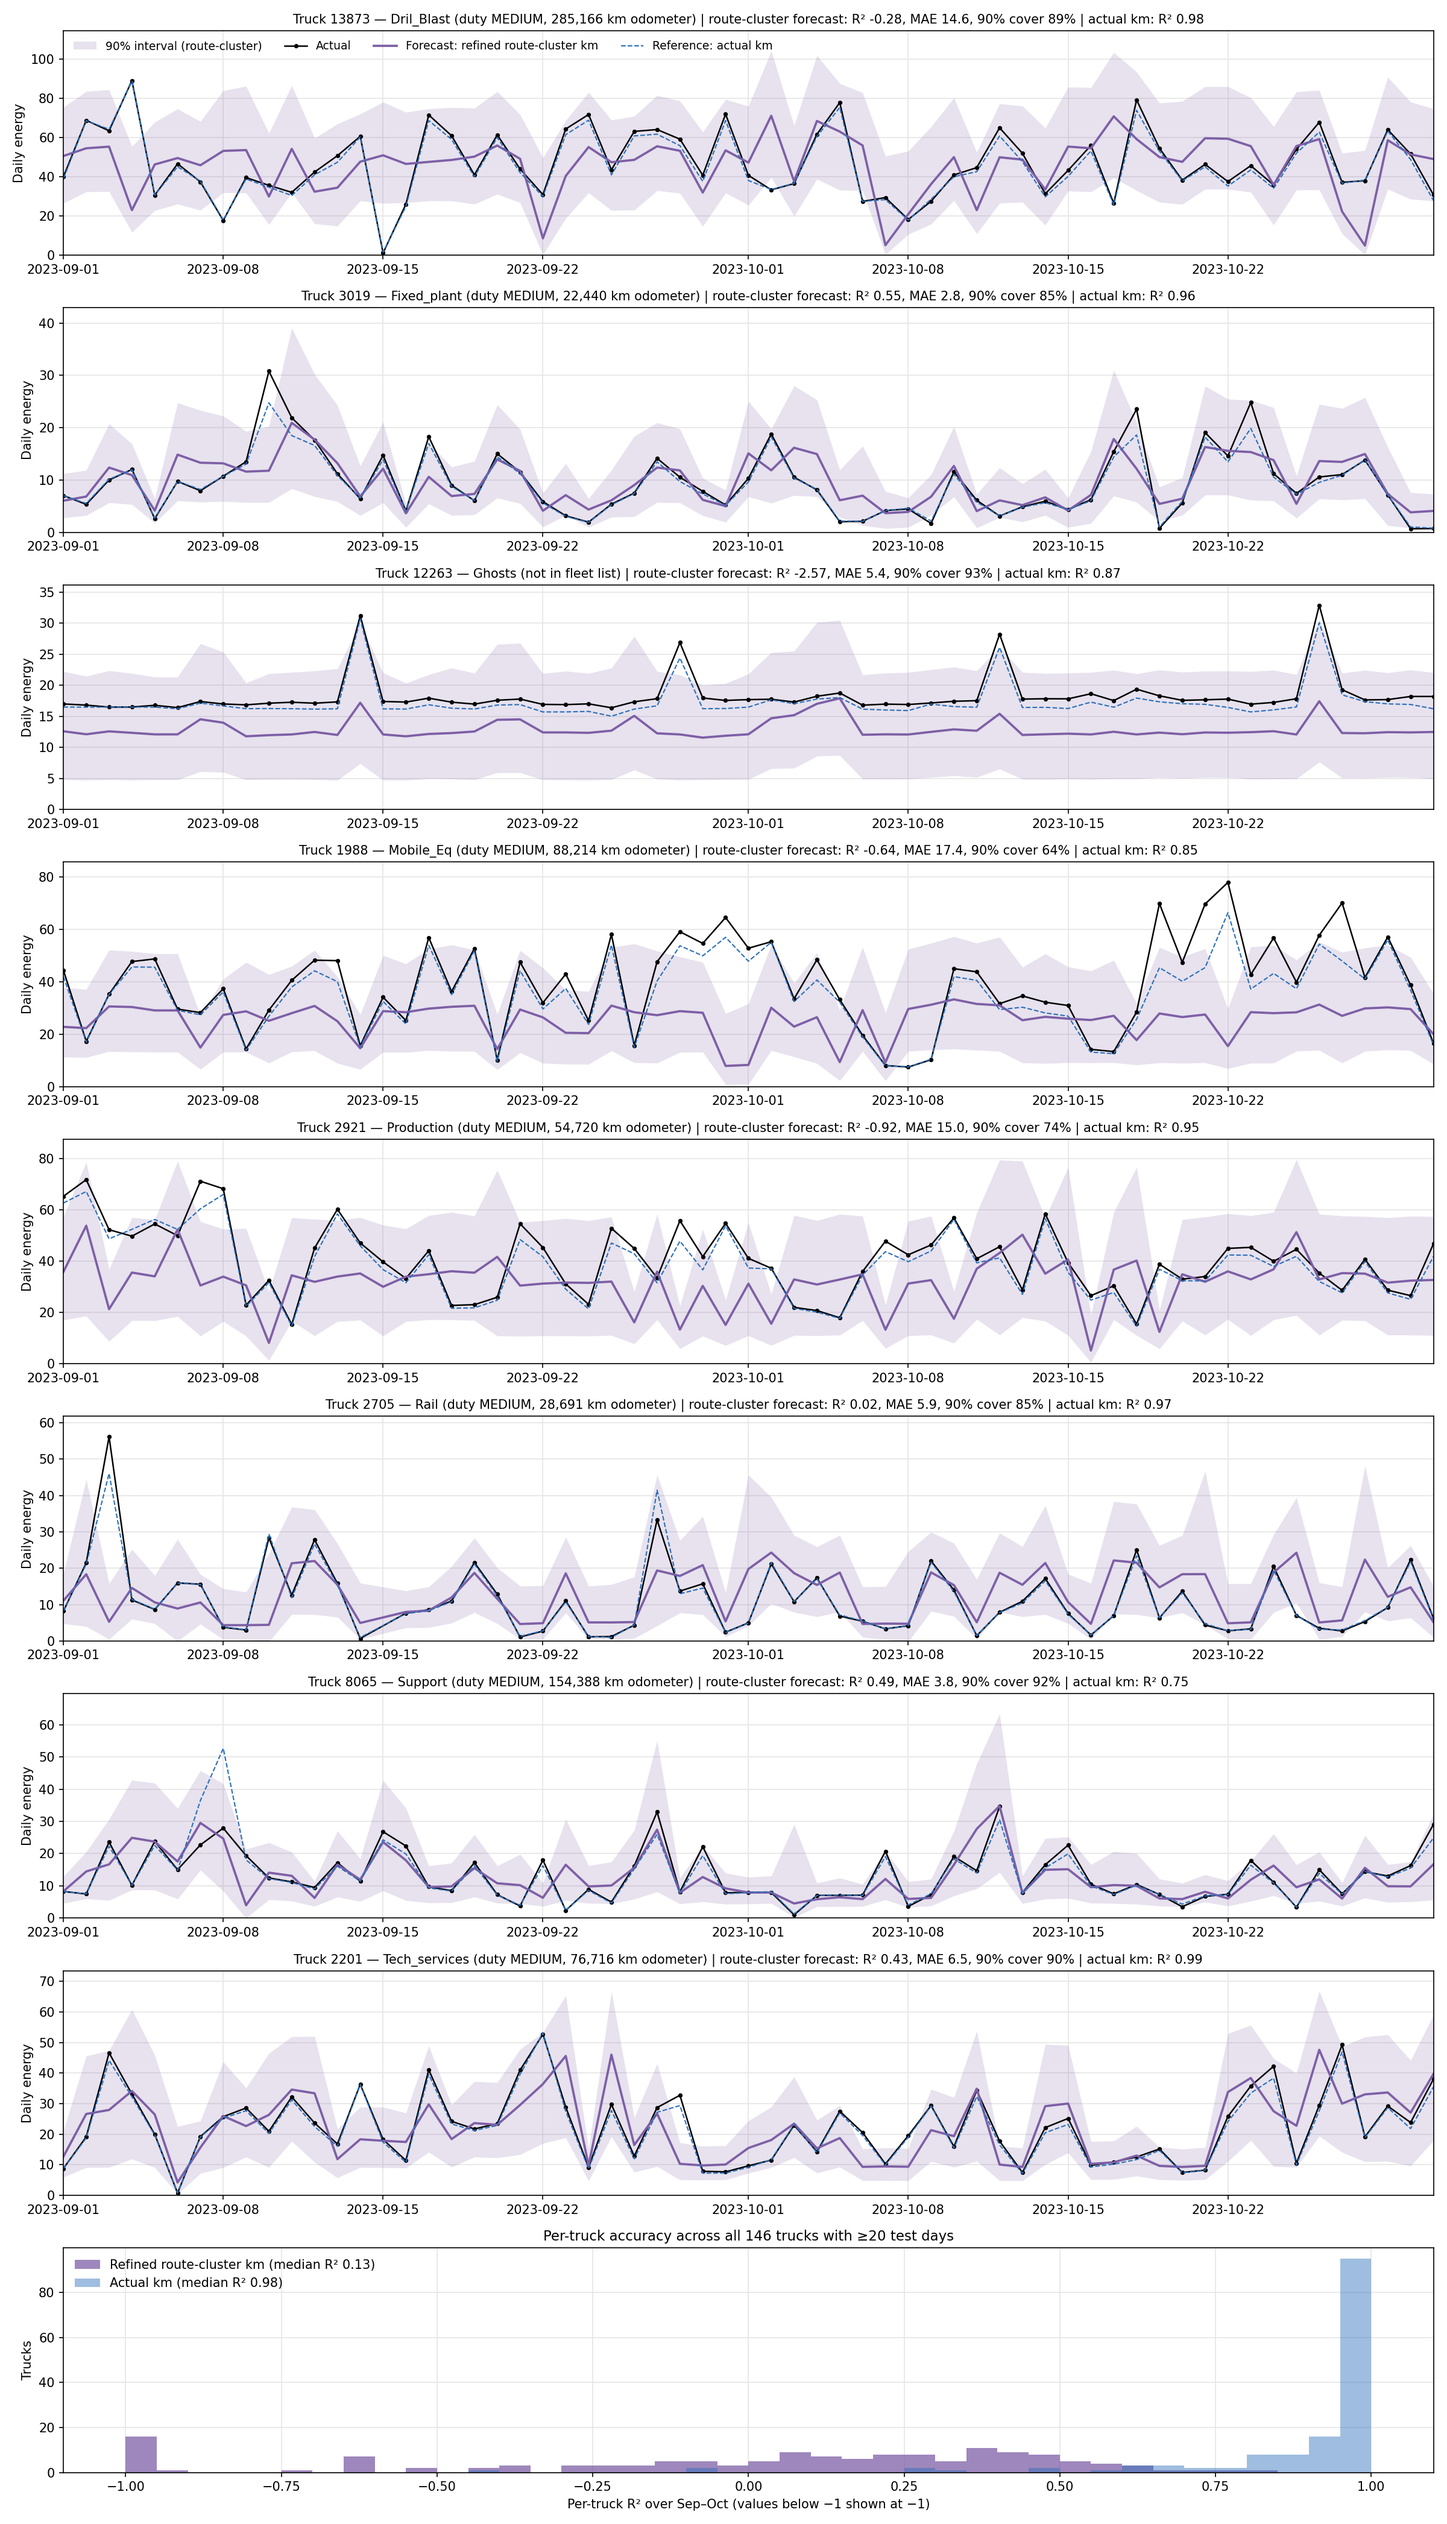
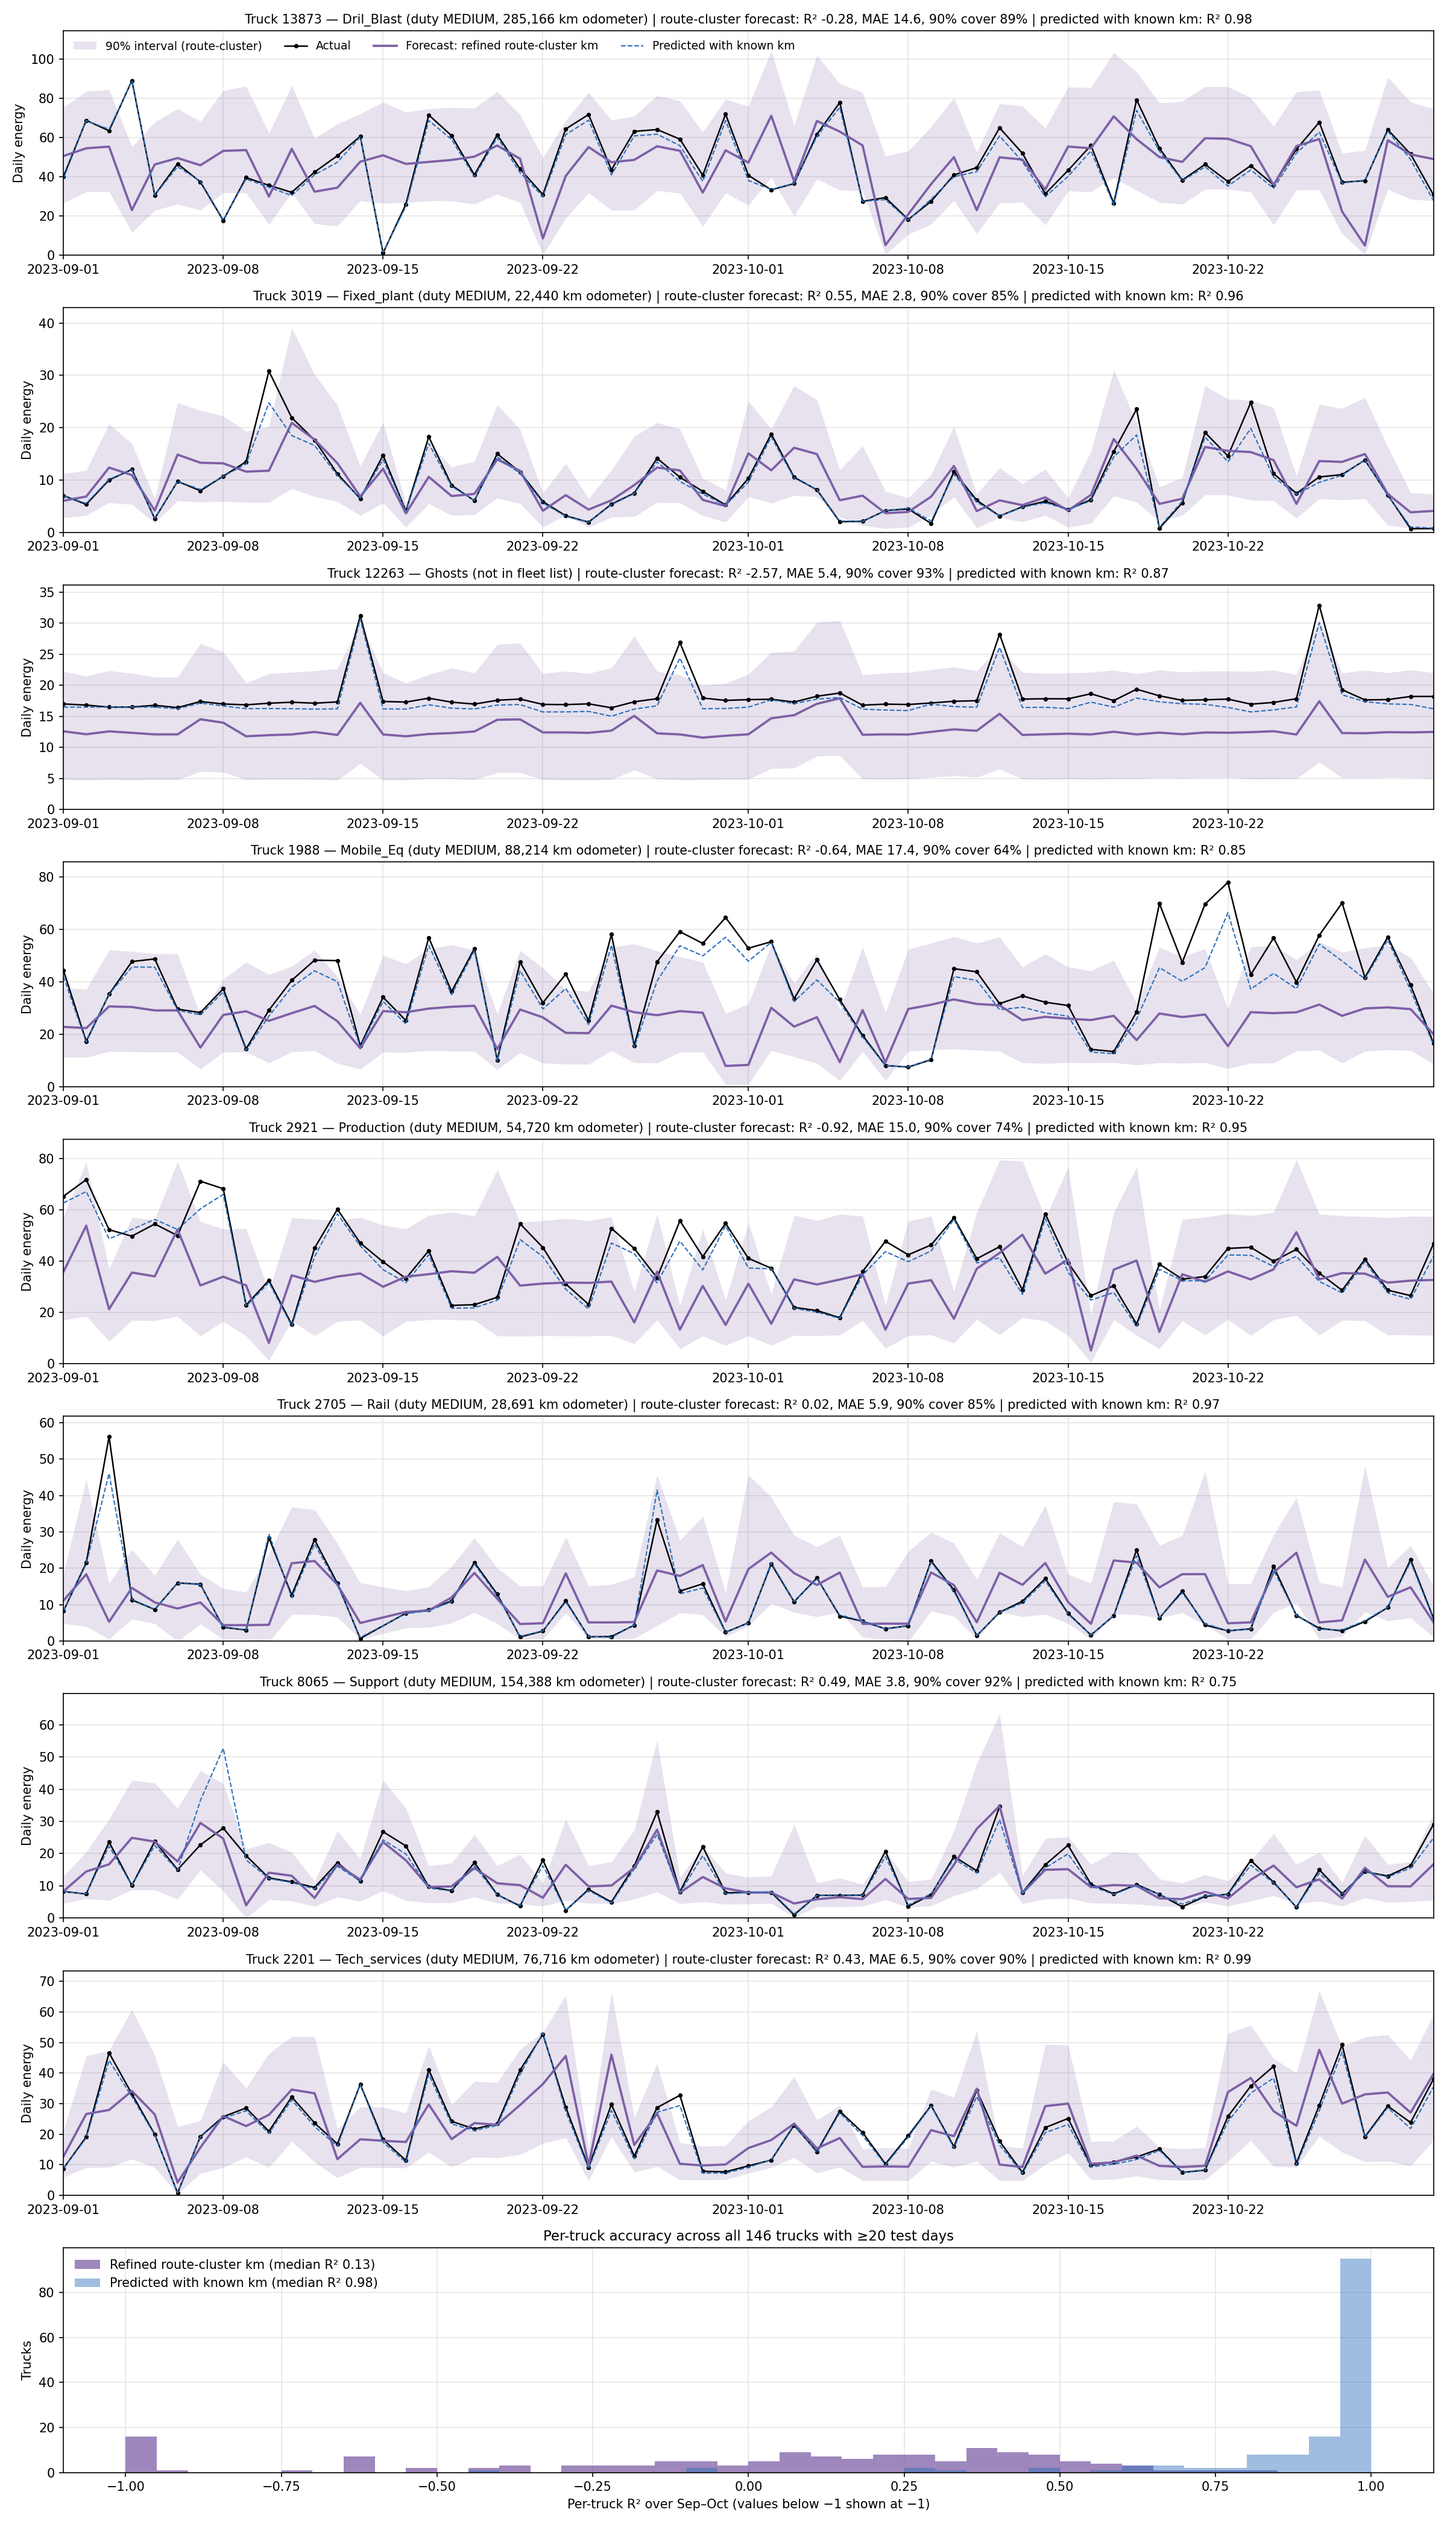
Rename reference line to 'Predicted with known km'
Make clear the dashed line is a model prediction given the truck's actual
GPS km, not measured energy.

Changed region(s): [[0.4688, 0.0, 0.5312, 0.0311]]

diff --git a/energy_uncertainty/predict_trucks_panel.py b/energy_uncertainty/predict_trucks_panel.py
@@ -3,7 +3,7 @@
 Models (trained Jan-Aug on all trucks, as in predict_energy_route_cluster_refined.py):
   refined cluster km : planned km from distance-refined route clusters, assigned
                        by route image only (realistic forecast)
-  actual km          : the truck's actual GPS km that day (upper bound)
+  predicted with known km : uses the truck's actual GPS km that day (upper bound)
 
 Each panel shows one truck: actual energy, the refined-cluster forecast with its
 90% interval, and the actual-km prediction for reference. A final panel shows
@@ -67,12 +67,12 @@ def main(trucks=None):
         ax.fill_between(tt["date"], lo, hi, color="#7e5fa6", alpha=0.18, lw=0, label="90% interval (route-cluster)")
         ax.plot(tt["date"], y, color="black", lw=1.2, marker="o", ms=2.5, label="Actual")
         ax.plot(tt["date"], p, color="#7e5fa6", lw=1.8, label="Forecast: refined route-cluster km")
-        ax.plot(tt["date"], pa, color="#2a6ebb", lw=1, ls="--", label="Reference: actual km")
+        ax.plot(tt["date"], pa, color="#2a6ebb", lw=1, ls="--", label="Predicted with known km")
         info = tt.iloc[0]
         attrs = f"duty {info['duty_cycle']}, {info['km']:,.0f} km odometer" if info["in_fleet"] else "not in fleet list"
         ax.set_title(f"Truck {tid} — {info['truck_category']} ({attrs}) | route-cluster forecast: "
                      f"R² {r2_score(y, p):.2f}, MAE {mean_absolute_error(y, p):.1f}, 90% cover {cov:.0%} | "
-                     f"actual km: R² {r2_score(y, pa):.2f}", fontsize=10)
+                     f"predicted with known km: R² {r2_score(y, pa):.2f}", fontsize=10)
         ax.set_ylabel("Daily energy")
         ax.set_ylim(0, max(y.max(), hi.max()) * 1.1)
         ax.set_xlim(test["date"].min(), test["date"].max())
@@ -85,7 +85,7 @@ def main(trucks=None):
     ax.hist(scores["R2"].clip(-1, 1), bins=bins, color="#7e5fa6", alpha=0.75,
             label=f"Refined route-cluster km (median R² {scores['R2'].median():.2f})")
     ax.hist(scores_actual["R2"].clip(-1, 1), bins=bins, color="#2a6ebb", alpha=0.45,
-            label=f"Actual km (median R² {scores_actual['R2'].median():.2f})")
+            label=f"Predicted with known km (median R² {scores_actual['R2'].median():.2f})")
     ax.set_xlabel("Per-truck R² over Sep–Oct (values below −1 shown at −1)")
     ax.set_ylabel("Trucks")
     ax.set_title(f"Per-truck accuracy across all {len(scores)} trucks with ≥{MIN_TEST_DAYS} test days", fontsize=11)
